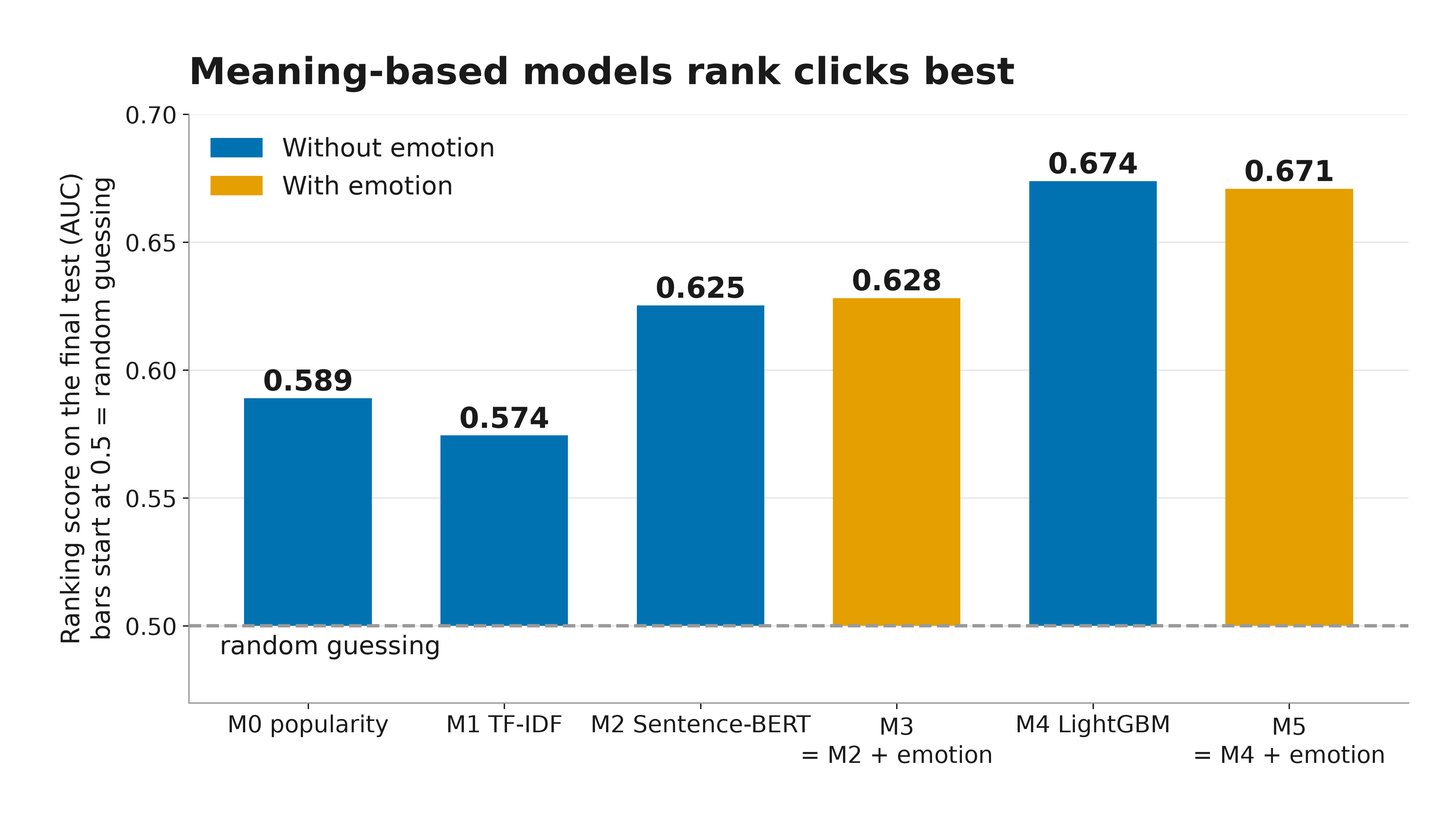
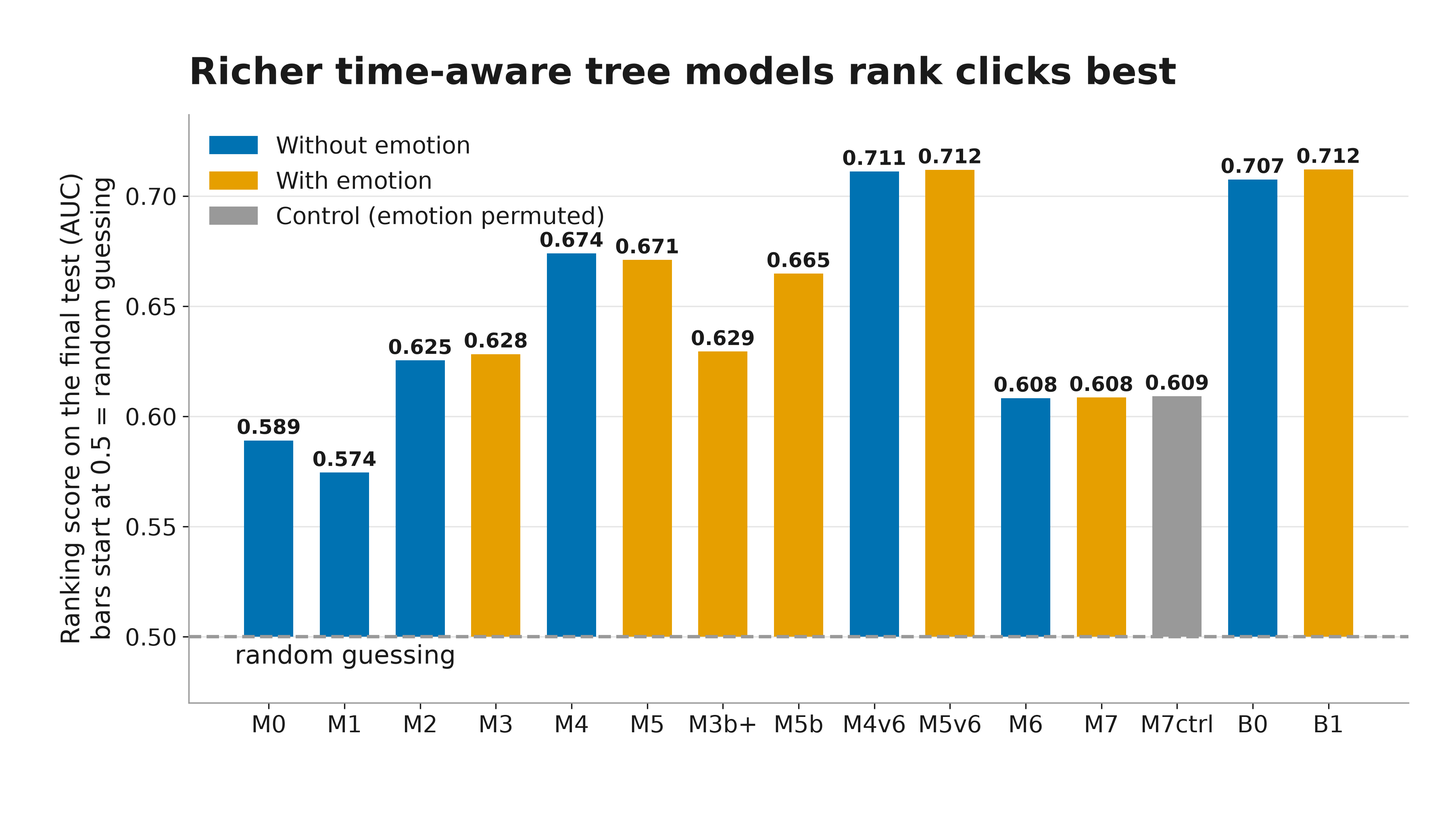
Stage 7: final families, v6 charts, regenerated comparison charts, week 8 report

diff --git a/scripts/07_06_final_report.py b/scripts/07_06_final_report.py
@@ -1,0 +1,162 @@
+"""Stage 7 (plan v6): the pre-declared families (dev, Holm within each), the fold evidence, and the v6 charts.
+Dev numbers are a SECOND LOOK (D79); the primary evidence is the rolling folds (trees) and valid seeds (NRMS).
+
+Reads:  saved valid/dev per-impression files, fold tables (v6_trees_*.csv, ltr_v6_eval_*), NRMS seed tables and curves, selection files.
+Writes: results/tables/v6_final_*.csv; results/figures/v6_improve/*.png and overview_v6.png; results/figures/v5_behaviour/e7_final_comparison.png.
+Not a pipeline step: it reads saved dev result files. Run: python scripts/07_06_final_report.py
+"""
+import json
+import shutil
+
+import numpy as np
+import pandas as pd
+from scipy import stats as st
+
+import _bootstrap  # noqa: F401
+from src import behaviour_charts as bc
+from src.behaviour_runs import load_context
+from src.config import BEHAVIOUR_FIGS, FIGURES, FROZEN_DIR, PROCESSED, RESULTS, TABLES
+from src.nrms_runs import RUN_DIR
+from src.stats import paired_test
+from src.subgroups import paired_family, shuffled_labels, fast_metrics
+
+OUT = FIGURES / "v6_improve"
+NRMS = {"M7a": "M7a_nrms_emotion_item", "M7b": "M7b_nrms_emotion_gated", "M7c": "M7c_nrms_emotion_both"}
+
+
+def per(m, part):
+    return pd.read_parquet(RESULTS / "per_impression" / f"{m}__{part}.parquet")
+
+
+def main():
+    sel_t = json.loads((TABLES / "v6_trees_selection.json").read_text(encoding="utf-8"))
+    sel_n = json.loads((TABLES / "v6_nrms_selection.json").read_text(encoding="utf-8"))
+    m5src = json.loads((FROZEN_DIR / "M5v6.json").read_text(encoding="utf-8"))["config"]["source"]
+    m7 = NRMS[sel_n["selected"]]
+    ctx = load_context("dev", with_m2=False)
+    users = ctx.users_by_imp
+    primary = [("M5v6 - M4v6 (trees)", "M4v6", "M5v6"), ("M7 - M6 (NRMS)", "M6_nrms", m7), ("M7 - M7ctrl (emotion information)", "M7ctrl_nrms_permuted", m7),
+               ("B1 - B0 (blends)", "B0", "B1")]
+    dev_models = {m for _, a, b in primary for m in (a, b)}
+    ladder = {m: float(per(m, "dev")["auc"].mean()) for m in ["M4_lightgbm", "M5_lightgbm_emotion", "M3b_plus", *dev_models]}
+    best = max(ladder, key=ladder.get)
+    secondary = [("M4v6 - M4", "M4_lightgbm", "M4v6"), ("B0 - M4v6", "M4v6", "B0"), ("B1 - M5", "M5_lightgbm_emotion", "B1"), (f"best ({best}) - M4", "M4_lightgbm", best)]
+    fam_p = paired_family([(n, per(a, "dev"), per(b, "dev")) for n, a, b in primary], users).assign(family="primary (emotion vs twin)")
+    fam_s = paired_family([(n, per(a, "dev"), per(b, "dev")) for n, a, b in secondary], users).assign(family="secondary (best overall)")
+    sh = shuffled_labels(ctx.truth, 42)["label"].to_numpy()
+    keys = pd.MultiIndex.from_frame(ctx.truth[["imp_key", "news_id"]])
+    ctrl = []
+    for _, a, b in primary:
+        sa, sb = (pd.read_parquet(RESULTS / "scores" / f"{m}__dev.parquet").set_index(["imp_key", "news_id"])["score"].reindex(keys).to_numpy() for m in (a, b))
+        qa, qb = (fast_metrics(ctx.truth["imp_key"].to_numpy(), sh, x) for x in (sa, sb))
+        t = paired_test(qa["auc"], qb["auc"])
+        ctrl.append({"comparison": f"{b} - {a}, labels shuffled", "auc_b": float(np.nanmean(qb["auc"])), "mean_diff": t["mean_diff"], "p": t["p"]})
+    fam = pd.concat([fam_p, fam_s], ignore_index=True)
+    fam.to_csv(TABLES / "v6_final_dev_families.csv", index=False)
+    pd.DataFrame(ctrl).to_csv(TABLES / "v6_final_dev_shuffled_controls.csv", index=False)
+
+    # fold evidence: trees per fold (seed-mean per-impression tables), NRMS valid seeds
+    folds = []
+    for f in ("F1", "F2", "F3", "F4"):
+        a, b = (pd.read_parquet(PROCESSED / f"ltr_v6_eval_{m}_{f}.parquet") for m in ("M4v6", m5src))
+        t = paired_test(a["auc"], b["auc"])
+        folds.append({"comparison": "M5v6 - M4v6", "fold": f, "gain": t["mean_diff"], "ci_low": t["ci_low"], "ci_high": t["ci_high"], "dz": t["dz"], "p": t["p"]})
+    pa, pb = per("M6_nrms", "valid"), per(m7, "valid")
+    t = paired_test(pa.set_index("imp_key")["auc"], pb.set_index("imp_key").reindex(pa["imp_key"])["auc"].to_numpy())
+    folds.append({"comparison": "M7 - M6", "fold": "F4 (valid)", "gain": t["mean_diff"], "ci_low": t["ci_low"], "ci_high": t["ci_high"], "dz": t["dz"], "p": t["p"]})
+    pc = per("M7ctrl_nrms_permuted", "valid")
+    t = paired_test(pc.set_index("imp_key")["auc"], pb.set_index("imp_key").reindex(pc["imp_key"])["auc"].to_numpy())
+    folds.append({"comparison": "M7 - M7ctrl", "fold": "F4 (valid)", "gain": t["mean_diff"], "ci_low": t["ci_low"], "ci_high": t["ci_high"], "dz": t["dz"], "p": t["p"]})
+    ba, bb = per("B0", "valid"), per("B1", "valid")
+    t = paired_test(ba["auc"], bb.set_index("imp_key").reindex(ba["imp_key"])["auc"].to_numpy())
+    folds.append({"comparison": "B1 - B0", "fold": "F4 (valid)", "gain": t["mean_diff"], "ci_low": t["ci_low"], "ci_high": t["ci_high"], "dz": t["dz"], "p": t["p"]})
+    folds = pd.DataFrame(folds)
+    folds.to_csv(TABLES / "v6_final_fold_evidence.csv", index=False)
+    print(fam.round(5).to_string(index=False), folds.round(5).to_string(index=False), pd.DataFrame(ctrl).round(4).to_string(index=False), sep="\n")
+
+    # charts
+    OUT.mkdir(parents=True, exist_ok=True)
+    fp = fam_p.set_index("comparison")
+    fold_mean = folds.groupby("comparison")["gain"].mean()
+    labs = ["Trees\nM5v6 - M4v6", "NRMS\nM7 - M6", "Emotion information\nM7 - M7ctrl", "Blends\nB1 - B0"]
+    keymap = {"M5v6 - M4v6 (trees)": "M5v6 - M4v6", "M7 - M6 (NRMS)": "M7 - M6", "M7 - M7ctrl (emotion information)": "M7 - M7ctrl", "B1 - B0 (blends)": "B1 - B0"}
+    fl = folds.groupby("comparison")[["ci_low", "ci_high"]].mean()
+    bc.grouped(OUT / "fair_twin.png", "Does emotion beat the same model without it?",
+               "AUC gain of each emotion model over its no-emotion twin: rolling folds / valid (primary evidence, mean over folds) and the final test "
+               "(a second look at dev), 95% CIs, Holm over the four. The blend bar mixes emotion with a different blend weight: at the same weight "
+               "B1 - B0 is only about +0.0008 on the final test (post-hoc, v6_posthoc_same_weight_blends.csv).",
+               labs, [("folds / valid (primary)", [fold_mean[keymap[k]] for k in fp.index], [fl.loc[keymap[k], "ci_low"] for k in fp.index],
+                       [fl.loc[keymap[k], "ci_high"] for k in fp.index], bc.BLUE),
+                      ("final test (second look)", fp["mean_diff"].tolist(), fp["ci_low"].tolist(), fp["ci_high"].tolist(), bc.ORANGE)],
+               "AUC gain over the twin", fmt="{:+.4f}", zero=True, notes=[f"Holm p {p:.2g}" for p in fp["p_holm"]])
+    tf = pd.read_csv(TABLES / "v6_trees_folds.csv")
+    m = tf.groupby(["model", "fold"])["auc"].mean().unstack()
+    noise = sel_t["twin_noise_sd"]
+    x = ["F1", "F2", "F3", "F4"]
+    series = [(v.replace("M5v6_", ""), [m.loc[v, f] - m.loc["M4v6", f] for f in x], None, None, c, mk)
+              for v, c, mk in zip(["M5v6_F1", "M5v6_F2", "M5v6_F3", "M5v6_F4", "M5v6_F5", "M5v6_F6"], bc.PALETTE, ["o", "s", "^", "D", "v", "P"]) if v in m.index]
+    bc.lines(OUT / "rolling_folds.png", "Emotion gain on each rolling fold, per variant",
+             f"AUC of each M5v6 variant minus M4v6 per fold (seed means). Dashed band: +/- the twin's seed noise SD ({noise:.4f}); gains inside it cannot be "
+             f"told apart from noise. Rule 8 {'chose ' + sel_t['chosen'] if sel_t['passed_rule'] else 'found no eligible variant (fallback F5)'}.",
+             [1, 2, 3, 4], series, "Fold (test day 11, 12, 13, 14 Nov)", "AUC gain over M4v6", fmt="{:+.4f}", zero=True, xticks=x,
+             hline=noise, hline_label="+1 SD seed noise")
+    lad = [("M4 (week 6)", "M4_lightgbm"), ("M4v6 (fuller features)", "M4v6"), ("M5v6 (+ emotion)", "M5v6")]
+    vals = [float(per(mm, "dev")["auc"].mean()) for _, mm in lad]
+    vv = [float(per(mm if mm != "M5v6" else m5src, "valid")["auc"].mean()) for _, mm in lad]
+    bc.grouped(OUT / "feature_ladder.png", "From M4 to M4v6 to M5v6",
+               "AUC on valid (fold F4) and on the final test (second look). M4v6 adds time-causal no-emotion features; M5v6 adds user-relative emotion.",
+               [l for l, _ in lad], [("valid (F4)", vv, None, None, bc.BLUE), ("final test", vals, None, None, bc.ORANGE)], "AUC", fmt="{:.4f}",
+               ylim=(min(vals + vv) - 0.01, max(vals + vv) + 0.008))
+    curves = []
+    for name in ("M6", "M7a", "M7b", "M7c", "M7ctrl"):
+        for s in (42, 43, 44):
+            p = RUN_DIR / f"{name}_s{s}" / "curve.csv"
+            if p.exists():
+                curves.append(pd.read_csv(p))
+    cv = pd.concat(curves, ignore_index=True)
+    cv.to_csv(TABLES / "v6_nrms_curves.csv", index=False)
+    ep = sorted(cv["epoch"].unique())
+    ser = []
+    for i, (name, c) in enumerate((("M6", bc.BLUE), (sel_n["selected"], bc.ORANGE), ("M7ctrl", bc.GREY))):
+        for s, mk in zip((42, 43, 44), ("o", "s", "^")):
+            d = cv[(cv["model"] == name) & (cv["seed"] == s)].set_index("epoch")["valid_auc"].reindex(ep)
+            ser.append((f"{name} seed {s}", d.tolist(), None, None, c, mk))
+    bc.lines(OUT / "nrms_curves.png", "NRMS training: valid AUC per epoch",
+             "Valid AUC after each epoch for M6, the selected M7 and its control, 3 seeds each (training stops one epoch after the best).",
+             ep, ser, "Epoch", "AUC (valid)", fmt="{:.3f}", xticks=[str(e) for e in ep])
+    ns = pd.read_csv(TABLES / "v6_nrms_seeds_valid.csv")
+    agg = ns.groupby("model")["auc"].agg(["mean", "min", "max"]).reindex(["M6", "M7a", "M7b", "M7c", "M7ctrl"]).dropna()
+    bc.bars(OUT / "nrms_bars.png", "NRMS with and without emotion",
+            "Valid AUC of M6 (no emotion), the M7 variants, and M7ctrl (the selected M7 with emotion vectors permuted across items), mean of 3 seeds, bars = min to max.",
+            agg.index.tolist(), agg["mean"].tolist(), "AUC (valid)", low=agg["min"].tolist(), high=agg["max"].tolist(), fmt="{:.4f}",
+            colors=[bc.BLUE if i == "M6" else (bc.GREY if i == "M7ctrl" else bc.ORANGE) for i in agg.index], zero=False, base=0.6,
+            lim=(0.6, float(agg["max"].max()) + 0.01))
+    # regenerated headline comparison (old version archived first)
+    arch = FIGURES / "archive_v5"
+    arch.mkdir(exist_ok=True)
+    for f in [*BEHAVIOUR_FIGS.glob("*.png"), *(FIGURES / "presentation").glob("*.png"), *(FIGURES / "results").glob("*.png")]:
+        dest = arch / f.parent.name / f.name
+        dest.parent.mkdir(exist_ok=True)
+        if not dest.exists():
+            shutil.copy2(f, dest)
+    order = [("M2_sbert", "M2"), ("M3_sbert_emotion", "M3"), ("M3b_plus", "M3b+"), ("M4_lightgbm", "M4"), ("M5_lightgbm_emotion", "M5"),
+             ("M4v6", "M4v6"), ("M5v6", "M5v6"), ("M6_nrms", "M6\nNRMS"), (m7, "M7"), ("M7ctrl_nrms_permuted", "M7ctrl"), ("B0", "B0\nblend"), ("B1", "B1\nblend")]
+    v, lo, hi = [], [], []
+    for mm, _ in order:
+        a = per(mm, "dev")["auc"].dropna().to_numpy()
+        h = st.t.ppf(0.975, len(a) - 1) * a.std(ddof=1) / np.sqrt(len(a))
+        v.append(a.mean()); lo.append(a.mean() - h); hi.append(a.mean() + h)
+    emo = {"M3_sbert_emotion", "M3b_plus", "M5_lightgbm_emotion", "M5v6", m7, "B1"}
+    bc.bars(BEHAVIOUR_FIGS / "e7_final_comparison.png", "Final test: every model, with and without emotion",
+            f"Final-test AUC with 95% CIs (week-8 models are a second look at dev). Orange = with emotion, grey = control. Best: {best} {ladder[best]:.4f}.",
+            [l for _, l in order], v, "AUC (final test)", low=lo, high=hi, fmt="{:.3f}",
+            colors=[bc.GREY if mm == "M7ctrl_nrms_permuted" else (bc.ORANGE if mm in emo else bc.BLUE) for mm, _ in order], zero=False, base=0.5,
+            lim=(0.5, max(hi) + 0.02))
+    best6 = ["fair_twin.png", "rolling_folds.png", "nrms_bars.png", "feature_ladder.png", "audit_overlap.png", "twin_gain_by_consistency.png"]
+    bc.contact_sheet([OUT / n for n in best6], OUT / "overview_v6.png", "Beyond Keywords, week 8: does emotion beat a fair twin?", cols=3)
+    import subprocess, sys
+    subprocess.run([sys.executable, str(RESULTS.parent / "scripts" / "06_12_overview.py")], check=False)
+
+
+if __name__ == "__main__":
+    main()

diff --git a/scripts/05_presentation_charts.py b/scripts/05_presentation_charts.py
@@ -61,18 +61,19 @@ def dev_auc_row(comparison, a, b):
 def chart_model_scores():
     t = pd.read_csv(TABLES / "model_ladder.csv")
     t = t[t["part"] == "dev"]
-    fig, ax = new("Meaning-based models rank clicks best")
+    fig, ax = new("Richer time-aware tree models rank clicks best")
     ax.grid(axis="y", color="#e6e6e6")
     x = range(len(t))
-    ax.bar(x, t["auc"] - 0.5, bottom=0.5, color=[ORANGE if e else BLUE for e in t["emotion"]], width=0.65)
+    control = t["model"].str.contains("ctrl").to_numpy()
+    ax.bar(x, t["auc"] - 0.5, bottom=0.5, color=[GREY if c else (ORANGE if e else BLUE) for e, c in zip(t["emotion"], control)], width=0.65)
     for i, v in zip(x, t["auc"]):
-        ax.text(i, v + 0.003, f"{v:.3f}", ha="center", fontsize=17, fontweight="bold")
+        ax.text(i, v + 0.003, f"{v:.3f}", ha="center", fontsize=12, fontweight="bold")
     ax.axhline(0.5, color=GREY, linestyle="--", linewidth=2)
     ax.text(-0.45, 0.4965, "random guessing", ha="left", va="top", fontsize=15, color=INK)
-    ax.set_xticks(list(x), [lab.replace(" = ", "\n= ") for lab in t["label"]], fontsize=14)
-    ax.set_ylim(0.47, 0.70)
+    ax.set_xticks(list(x), [lab.split()[0] for lab in t["label"]], fontsize=14)
+    ax.set_ylim(0.47, float(t["auc"].max()) + 0.025)
     ax.set_ylabel("Ranking score on the final test (AUC)\nbars start at 0.5 = random guessing")
-    ax.legend(handles=[Patch(color=BLUE, label="Without emotion"), Patch(color=ORANGE, label="With emotion")], loc="upper left", frameon=False, fontsize=15)
+    ax.legend(handles=[Patch(color=BLUE, label="Without emotion"), Patch(color=ORANGE, label="With emotion"), Patch(color=GREY, label="Control (emotion permuted)")], loc="upper left", frameon=False, fontsize=14)
     save(fig, "1_model_scores.png")
 
 

diff --git a/src/config.py b/src/config.py
@@ -135,7 +135,11 @@ SBERT_CHUNK = 50_000                                     # candidate rows per ch
 M3_NAME = "M3_sbert_emotion"
 MODEL_LADDER = [("M0_popularity", "M0 popularity", False), ("M1_tfidf", "M1 TF-IDF", False), ("M2_sbert", "M2 Sentence-BERT", False),
                 ("M3_sbert_emotion", "M3 = M2 + emotion", True), ("M4_lightgbm", "M4 LightGBM", False),
-                ("M5_lightgbm_emotion", "M5 = M4 + emotion", True), ("M6_nrms", "M6 NRMS", False), ("M7_nrms_emotion", "M7 = M6 + emotion", True)]
+                ("M5_lightgbm_emotion", "M5 = M4 + emotion", True), ("M3b_plus", "M3b+ (week 7)", True), ("M5b_lightgbm_emotion", "M5b (week 7)", True),
+                ("M4v6", "M4v6 LightGBM, fuller features", False), ("M5v6", "M5v6 = M4v6 + emotion", True), ("M6_nrms", "M6 NRMS", False),
+                ("M7a_nrms_emotion_item", "M7 = M6 + emotion", True), ("M7b_nrms_emotion_gated", "M7 = M6 + emotion", True),
+                ("M7c_nrms_emotion_both", "M7 = M6 + emotion", True), ("M7ctrl_nrms_permuted", "M7ctrl (emotion permuted)", True),
+                ("B0", "B0 = M4v6 + M6 blend", False), ("B1", "B1 = M5v6 + M7 blend", True)]
 M3_VARIANTS = ["cosine", "personal", "user_specific", "mood_repair"]  # grid order; first = primary (D52, D53)
 M3_REPORT_ONLY = "title_only"                            # spec v3 variant, reported, never selected
 M3_K_OTHER = 10

diff --git a/docs/reports/week8_improvement_findings.md b/docs/reports/week8_improvement_findings.md
@@ -1,0 +1,75 @@
+# Week 8: fair twins, NRMS and blends (plan v6)
+
+**Honesty note.** Dev (15 Nov) was already looked at in week 7, and that motivated some of these changes. Dev numbers this round are a
+SECOND LOOK; the primary evidence is the rolling-origin folds on days 9-14 (and, for NRMS, the three seeds on valid). Branch `week8-improve`,
+local commits only. Plan `docs/experiments_plan_v6.md` (committed before any result), audit `docs/audit_v6.md`, decisions D79-D89.
+Charts `results/figures/v6_improve/` (`overview_v6.png`), tables `results/tables/v6_*.csv` and `audit_v6_*.csv`. 261 tests pass.
+
+## Per stage
+**Stage 0 Audit** - FOUND THE MISTAKES
+- Asked: why did M5 and M5b look good on valid and fail on dev?
+- Found: 70.8% of valid candidates were already shown in fit but only 19.4% of dev candidates; 18.4% of M5's contribution came from raw item
+  emotion columns (item IDs in disguise); M4's seed noise is SD 0.0023, as big as the effects we were reading; tuning was unequal (M2 4 settings vs M3 44).
+- Verdict: the earlier emotion gains for trees were partly item memorising and partly noise.
+
+**Stage 1-2 Fair tree models** - M4v6 HELPS a lot (no emotion); emotion TOO SMALL
+- Asked: with a stronger, fairly tuned no-emotion model, does emotion still add?
+- Found: the time-causal features (recent CTR, article age, the user's earlier category clicks, within-list ranks) lift the tree from 0.6739 to
+  0.7111 on the final test (+0.0372). The selected emotion twin M5v6 (variant F2) adds +0.0012 on the folds (F1 +0.0034, F2 +0.0006,
+  F3 -0.0007, F4 +0.0005) and +0.0007 on the final test (95% CI 0.0001-0.0014, Holm p 0.09, user-level p 0.07).
+- Verdict: emotion passed the eligibility rule by a hair, but the final-test gain is not significant after Holm: TOO SMALL.
+
+**Stage 3 NRMS M6** - REPRODUCED
+- Asked: does our NRMS work?
+- Found: valid AUC 0.6387 (3 seeds 0.6375-0.6408), inside the 0.63-0.66 target; 4-5 epochs, early stopping as declared. Final test 0.6082:
+  NRMS drops more from valid to dev than the trees, like M2 did.
+- Verdict: working, but weaker than the tree models here.
+
+**Stage 4 NRMS + emotion M7** - NO EFFECT
+- Asked: does emotion inside NRMS help, and is it the emotion information or just extra capacity?
+- Found: no variant beat M6 by more than its seed noise (M7a +0.0014, M7c +0.0013, M7b +0.0002; SD 0.0018), so the declared fallback M7b
+  is M7. Final test: M7 - M6 +0.0002 (p 0.33); M7 - M7ctrl (emotion permuted) -0.0006 (Holm p 0.14).
+- Verdict: no sign that emotion information helps NRMS.
+
+**Stage 5 Blends** - best overall B1, but the emotion part is TOO SMALL
+- Asked: does a tree + NRMS blend beat the trees, and does emotion help at system level?
+- Found: B0 0.7075, B1 0.7120 on the final test. The pre-declared B1 - B0 = +0.0045 (Holm p 6e-34) is mostly a weight difference
+  (B1 uses tree weight 0.8, B0 0.7, and NRMS is weak on dev). Post-hoc at the same weight: +0.0007 to +0.0008, the tree-level gain.
+- Verdict: the blend does not beat M4v6 alone without emotion (B0 - M4v6 -0.0036); the emotion part stays tiny.
+
+**Stage 6 Where emotion still helps** (descriptive)
+- Asked: does the week-7 pattern (more gain for consistent users; loss for joy readers) survive against fair twins?
+- Found: the direction survives but is small: M5v6 - M4v6 low/mid/high consistency +0.0005/+0.0008/+0.0010, M7 - M6 +0.0006/+0.0002/+0.0008
+  (high significant). The joy-reader loss is gone: M5v6 +0.0023 and gated M7 +0.0005 for "excitement + joy" readers.
+- Verdict: a weak, consistent pattern, not a usable gain.
+
+## Did emotion beat its twin?
+| Comparison | Folds / valid (primary) | Final test (second look) | Holm p | dz | Verdict |
+|---|---|---|---|---|---|
+| M5v6 - M4v6 (trees) | +0.0012 (mean of 4 folds) | +0.0007 (0.0001 to 0.0014) | 0.093 | 0.008 | TOO SMALL |
+| M7 - M6 (NRMS) | +0.0003 (valid, 3 seeds) | +0.0002 (-0.0002 to 0.0007) | 0.33 | 0.004 | NO EFFECT |
+| M7 - M7ctrl (emotion information) | +0.0003 (valid) | -0.0006 (-0.0013 to 0.0001) | 0.14 | -0.007 | NO EFFECT |
+| B1 - B0 (blends) | +0.0004 (valid) | +0.0045 (+0.0008 at the same weight, post-hoc) | 6e-34 | 0.045 | TOO SMALL (confounded) |
+
+Shuffled-label controls on the final test give AUC 0.499-0.501 for every emotion model.
+
+## Best overall model
+B1 (M5v6 + M7 blend) 0.7120, statistically tied with M5v6 0.7118 and M4v6 0.7111; all three beat the week-6 M4 (0.6739) by +0.037 to +0.038.
+The big step comes from better time-causal features, not from emotion.
+
+## What to claim in the thesis and what NOT to claim
+- Claim: a fair test (same model with and without emotion, same tuning budget, same seeds) finds at most a tiny emotion gain: +0.0007 AUC for
+  the tree model on the final test (not significant after Holm) and none for NRMS.
+- Claim: earlier apparent gains (M5, M5b) were item memorising on a validation day that shared 71% of its items with training, and the audit
+  shows how this was found and fixed.
+- Claim: emotional context helps slightly more for emotionally consistent users, a weak but repeated pattern; descriptive only.
+- Claim: the strongest model is a feature-rich, time-causal LightGBM ranker; emotion is not needed to reach it.
+- Do NOT claim that emotion improves news (or ad) ranking, that B1's +0.0045 is an emotion effect, or anything about "the user's emotional state".
+
+## Limitations
+- Dev is a second look (D79); the folds are the primary evidence, and early stopping uses each fold's test day, which is mildly optimistic for every model alike.
+- GoEmotions was trained on Reddit comments; news headlines and abstracts are a domain shift (SemEval validation covers headlines only).
+- MIND has no ads: any claim about ad ranking is a transfer argument only.
+- NRMS used mpnet input embeddings instead of GloVe (not downloadable here, D80), ran on fold F4 only, and was not retrained on days 9-14.
+- Tree shuffled-label retrains are above 0.5 (0.52-0.57) because of early-stopping selection on true labels; they show no emotion advantage.
+- Compute incident (D82): parallel runs filled the C: drive; jobs were rerun from checkpoints, no result changed.

diff --git a/docs/decisions.md b/docs/decisions.md
@@ -89,3 +89,11 @@ Every non-trivial choice, with the alternatives, the reason and the evidence (wh
 | D79 | 2026-11-05 | Week 8 starts on branch week8-improve. HONESTY NOTE: dev (15 Nov) was already looked at in week 7 and that motivated some week-8 changes; dev numbers this round are a SECOND LOOK, the primary evidence is the rolling-origin folds on days 9-14 (plan v6). The Stage 0 audit ran before the plan; it trains no new model and only informed the M4v6 feature list | Treat dev as fresh | It is not fresh | docs/audit_v6.md |
 | D80 | 2026-11-05 | NRMS word embeddings: GloVe 300d could not be downloaded in this environment (no route to nlp.stanford.edu), so the input-embedding matrix of the cached all-mpnet-base-v2 (768-d, with its tokenizer on lower-cased titles) initialises a trainable embedding table. Optuna 5.0.0 installed and added to requirements | Random init; distilbert embeddings | Pretrained, already cached, and the same tokenizer family as M2 | measured: 1% of an epoch 2-3 s, about 5 min per epoch, peak GPU memory 0.9 GB |
 | D81 | 2026-11-05 | PRE-DECLARED: docs/experiments_plan_v6.md (rolling folds, M4v6 features, six M5v6 variants, Optuna 8 trials per model on F3+F4, Rule 8 with F2-F4 wins and the twin seed-noise SD, NRMS M6/M7a-c/M7ctrl with seeds in place of folds, blends B0/B1/B1b, families). Declared reductions to stay near 16 hours: NRMS on fold F4 only, NRMS dev scored with the fit-trained checkpoints, tree tuning on 2 folds | More trials or folds | Compute budget | plan v6 |
+| D82 | 2026-11-05 | Compute incident: running the NRMS training (GPU, about 3 GB RAM) and the LightGBM fold evaluation (about 5 GB RAM) at the same time exhausted RAM; Windows grew its pagefile to 17 GB and the C: drive filled up (0 MB free), so two evaluation runs died with MemoryError. Both jobs were stopped (checkpointed, nothing lost: finished boosters and NRMS epochs resume), the fold loader was rewritten to split folds in pyarrow, and from now on one heavy job runs at a time with logs on D:. No result was affected; it only costs wall time | Keep running in parallel | Parallel runs broke the machine | C: free space back to 6.6 GB after the stop |
+| D84 | 2026-11-06 | M4v6 frozen: best Optuna setting, 3 seeds, retrain on days 9-14 (frozen:M4v6:5b08eb79e3). Frozen before its dev run | - | plan v6 | results/tables/v6_*_selection.json |
+| D85 | 2026-11-06 | M5v6 frozen by Rule 8 (see v6_trees_selection.json) (frozen:M5v6:393db93413). Frozen before its dev run | - | plan v6 | results/tables/v6_*_selection.json |
+| D86 | 2026-11-06 | M6 frozen: NRMS, 3 seeds, fit-trained, early stopping on valid (frozen:M6_nrms:5fa42019f6). Frozen before its dev run | - | plan v6 | results/tables/v6_*_selection.json |
+| D87 | 2026-11-06 | M7 = M7b frozen by Rule 8 for NRMS (see v6_nrms_selection.json) (frozen:M7b_nrms_emotion_gated:ac9d972e45). Frozen before its dev run | - | plan v6 | results/tables/v6_*_selection.json |
+| D88 | 2026-11-06 | M7ctrl frozen: M7b with item emotion permuted across items (frozen:M7ctrl_nrms_permuted:55045dd04e). Frozen before its dev run | - | plan v6 | results/tables/v6_*_selection.json |
+| D83 | 2026-11-06 | Rule 8 outcomes. Trees: twin seed-noise SD 0.00097 (mean over folds); F2, F3, F4 and F6 were eligible (2 of 3 fold wins in F2-F4, mean gains 0.0011-0.0013), tied within 0.0005, so the simpler F2 was chosen (M5v6 = M4v6 + congruence, consistency, consistency x personal, persona). F1 and F5 failed. NRMS: no variant passed (M6 seed SD 0.0018; M7a +0.0014, M7c +0.0013, M7b +0.0002), so the declared fallback M7b is M7; M7b's valid mean beats M7ctrl by only 0.00005. Blends: B0 w 0.7, B1 w 0.8; B1b not kept (+0.0003, p 0.07). Tree shuffled-label retrains reached 0.52-0.57, above 0.5 because they stop after 2-7 rounds with early stopping on true valid labels (selection bias, same for twins: M4v6 0.563, F2 0.524) | - | Rules applied as declared | v6_trees_rule8.csv, v6_nrms_rule8.csv, v6_blends_choice.json, v6_trees_shuffled_controls.csv |
+| D89 | 2026-11-06 | POST-HOC EXPLORATORY (after the dev results): B1 - B0 (+0.0045 on dev, pre-declared) is confounded by the different blend weights chosen on valid (0.8 vs 0.7) while NRMS is much weaker on dev (0.608) than on valid (0.639). At the same weight B1 - B0 is +0.0007 (w 0.7) and +0.0008 (w 0.8) on dev, +-0.0004 on valid, i.e. the tree-level emotion gain. Reported next to the pre-declared number; nothing is chosen from it | Report only the pre-declared number | It would overstate the emotion effect | v6_posthoc_same_weight_blends.csv |

diff --git a/docs/progress.md b/docs/progress.md
@@ -283,3 +283,13 @@ M0 to M5 are complete. M4 is the best model on dev. Next, when asked: M6, M7. Sp
 
 ## Resume here
 M0 to M5 plus M3b+ and M5b are complete. Next, when asked: M6, M7. Spec v5 is current; open: Q14, Q15.
+
+## 2026-11-06 week8-improve: stages 0-7 done
+- Audit first (`docs/audit_v6.md`), plan v6 committed before any result, then fair twins on rolling folds, NRMS, blends, subgroups, charts.
+- Final test (second look, D79): M4v6 0.7111 (+0.037 over M4), M5v6 0.7118 (+0.0007, Holm p 0.09), M6 0.6082, M7 0.6085, M7ctrl 0.6091, B0 0.7075,
+  B1 0.7120. Emotion did not clearly beat its twin anywhere. Report `docs/reports/week8_improvement_findings.md`. 261 tests pass.
+- Errors found in my own work: RAM/C: drive exhaustion from parallel jobs (D82); the pre-declared B1 - B0 mixes emotion with blend weight (D89);
+  tree shuffled-label controls biased by early stopping (D83); the first NRMS run's seed table was never written because it crashed (rerun from checkpoints).
+
+## Resume here
+All planned models (M0-M7) exist. Week 8 is the final fair comparison. Open: Q14, Q15.
